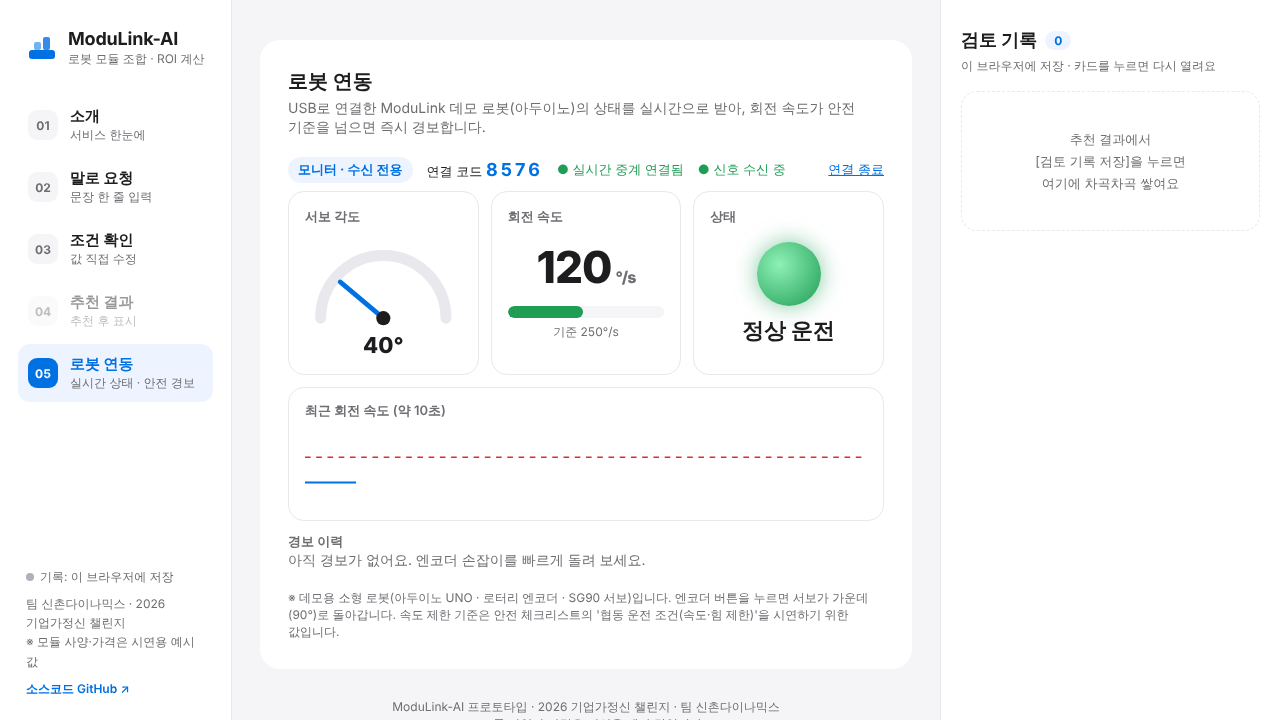
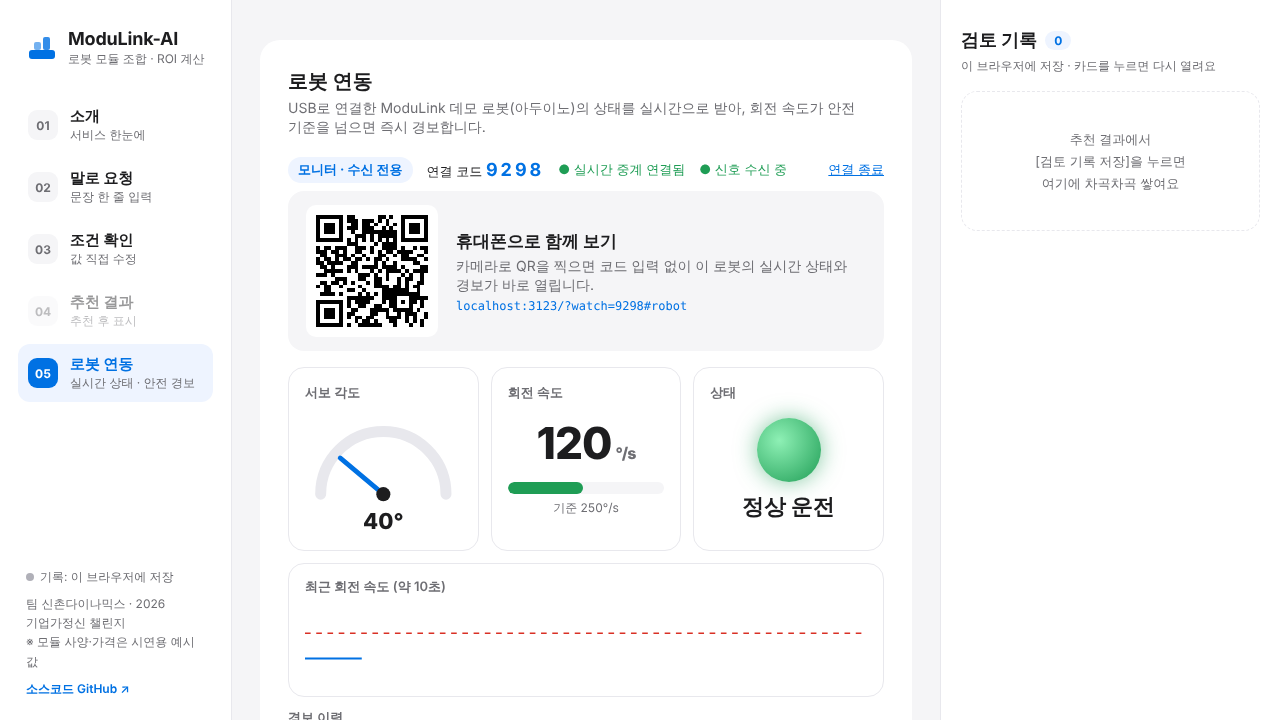
로봇 연동: 관람객용 QR(코드 자동 입력 모니터 링크)
Claude-Session: https://claude.ai/code/session_01Vr6E2LGntpsWEnfaWAuWLy

diff --git a/src/components/RobotPanel.tsx b/src/components/RobotPanel.tsx
@@ -1,6 +1,7 @@
 "use client";
 
 import { useEffect, useRef, useState } from "react";
+import QRCode from "qrcode";
 import { Beeper, parseState, RelayLink, type RobotState, SerialLink, serialSupported } from "@/features/robot/link";
 
 type Mode = "sender" | "monitor";
@@ -118,15 +119,32 @@ export default function RobotPanel({ visible }: { visible: boolean }) {
   const sendCmd = (cmd: string) => void serial.current?.send(cmd);
 
   /* ---------- 모니터 (발표 PC) ---------- */
-  const startMonitor = () => {
-    if (!/^\d{4}$/.test(codeInput)) { setError("4자리 연결 코드를 입력해 주세요."); return; }
+  const startMonitor = (given?: string) => {
+    const c = given ?? codeInput;
+    if (!/^\d{4}$/.test(c)) { setError("4자리 연결 코드를 입력해 주세요."); return; }
     setError(null);
-    unlockSound();
-    setCode(codeInput);
+    if (!given) unlockSound();
+    setCode(c);
     setMode("monitor");
     relay.current = new RelayLink();
-    void relay.current.open(codeInput, "monitor", { onStatus: setRelayStatus, onState: apply });
+    void relay.current.open(c, "monitor", { onStatus: setRelayStatus, onState: apply });
   };
+  // QR로 들어온 경우(?watch=1234): 코드 입력 없이 바로 모니터 시작
+  const startMonitorRef = useRef(startMonitor);
+  useEffect(() => { startMonitorRef.current = startMonitor; });
+  useEffect(() => {
+    const w = new URLSearchParams(location.search).get("watch");
+    if (w && /^\d{4}$/.test(w)) startMonitorRef.current(w);
+  }, []);
+  // 관람객용 QR (이 코드로 바로 모니터 화면이 열림)
+  const [qr, setQr] = useState<{ url: string; svg: string } | null>(null);
+  useEffect(() => {
+    if (!code) return;
+    const url = `${location.origin}/?watch=${code}#robot`;
+    QRCode.toString(url, { type: "svg", margin: 1, errorCorrectionLevel: "M" })
+      .then((svg) => setQr({ url, svg }))
+      .catch(() => setQr(null));
+  }, [code]);
 
   const stopAll = async () => {
     await serial.current?.disconnect();
@@ -180,7 +198,7 @@ export default function RobotPanel({ visible }: { visible: boolean }) {
                 <input inputMode="numeric" maxLength={4} placeholder="0000" value={codeInput} aria-label="연결 코드"
                   onChange={(e) => setCodeInput(e.target.value.replace(/\D/g, "").slice(0, 4))}
                   onKeyDown={(e) => { if (e.key === "Enter") startMonitor(); }} />
-                <button type="button" className="btn" onClick={startMonitor}>모니터 시작</button>
+                <button type="button" className="btn" onClick={() => startMonitor()}>모니터 시작</button>
               </div>
             </div>
           </div>
@@ -197,7 +215,17 @@ export default function RobotPanel({ visible }: { visible: boolean }) {
               <span className={`st ${fresh ? "online" : "offline"}`}>● 신호 {fresh ? "수신 중" : "없음"}</span>
               <button type="button" className="link" onClick={stopAll}>연결 종료</button>
             </div>
-            {mode === "sender" && <p className="hint-s">발표 PC에서 [로봇 연동] → [모니터]에 코드 <b>{code}</b>를 입력하면 같은 화면을 볼 수 있어요.</p>}
+            {mode === "sender" && <p className="hint-s">발표 PC에서 [로봇 연동] → [모니터]에 코드 <b>{code}</b>를 입력하거나, 아래 QR을 찍으면 같은 화면을 볼 수 있어요.</p>}
+            {qr && (
+              <div className="robot-qr">
+                <div className="qr-img" aria-label="실시간 모니터 QR 코드" dangerouslySetInnerHTML={{ __html: qr.svg }} />
+                <div className="qr-txt">
+                  <b>휴대폰으로 함께 보기</b>
+                  <span>카메라로 QR을 찍으면 코드 입력 없이 이 로봇의 실시간 상태와 경보가 바로 열립니다.</span>
+                  <code>{qr.url.replace(/^https?:\/\//, "")}</code>
+                </div>
+              </div>
+            )}
 
             <div className="robot-grid">
               <div className="gauge">

diff --git a/src/app/globals.css b/src/app/globals.css
@@ -387,3 +387,12 @@ section[id] { scroll-margin-top: 24px; }
   .side .side-nav { justify-content: stretch; }
   .side .side-nav button { padding: 6px 0; }
 }
+
+/* 관람객용 QR */
+.robot-qr { display: flex; gap: 18px; align-items: center; background: var(--bg); border-radius: 16px; padding: 14px 18px; margin: 4px 0 16px; }
+.robot-qr .qr-img { width: 132px; height: 132px; flex-shrink: 0; background: #fff; border-radius: 10px; padding: 6px; }
+.robot-qr .qr-img svg { width: 100%; height: 100%; display: block; }
+.robot-qr .qr-txt { display: flex; flex-direction: column; gap: 4px; font-size: 14px; color: var(--sub); }
+.robot-qr .qr-txt b { color: var(--text); font-size: 17px; }
+.robot-qr code { font-size: 12px; color: var(--blue); word-break: break-all; }
+@media (max-width: 520px) { .robot-qr .qr-img { width: 104px; height: 104px; } }

diff --git a/src/components/Workspace.tsx b/src/components/Workspace.tsx
@@ -51,7 +51,8 @@ export default function Workspace({ modules, initialRecords, dbReady, catalogLab
   useEffect(() => {
     const h = location.hash.slice(1) as TabId;
     // eslint-disable-next-line react-hooks/set-state-in-effect -- 주소의 #탭 이름은 마운트 후에만 읽을 수 있음
-    if (TABS.includes(h) && h !== "result") setTabState(h);
+    if (new URLSearchParams(location.search).get("watch")) setTabState("robot");
+    else if (TABS.includes(h) && h !== "result") setTabState(h);
     // eslint-disable-next-line react-hooks/exhaustive-deps
   }, []);
   const [toast, setToast] = useState<string | null>(null);
